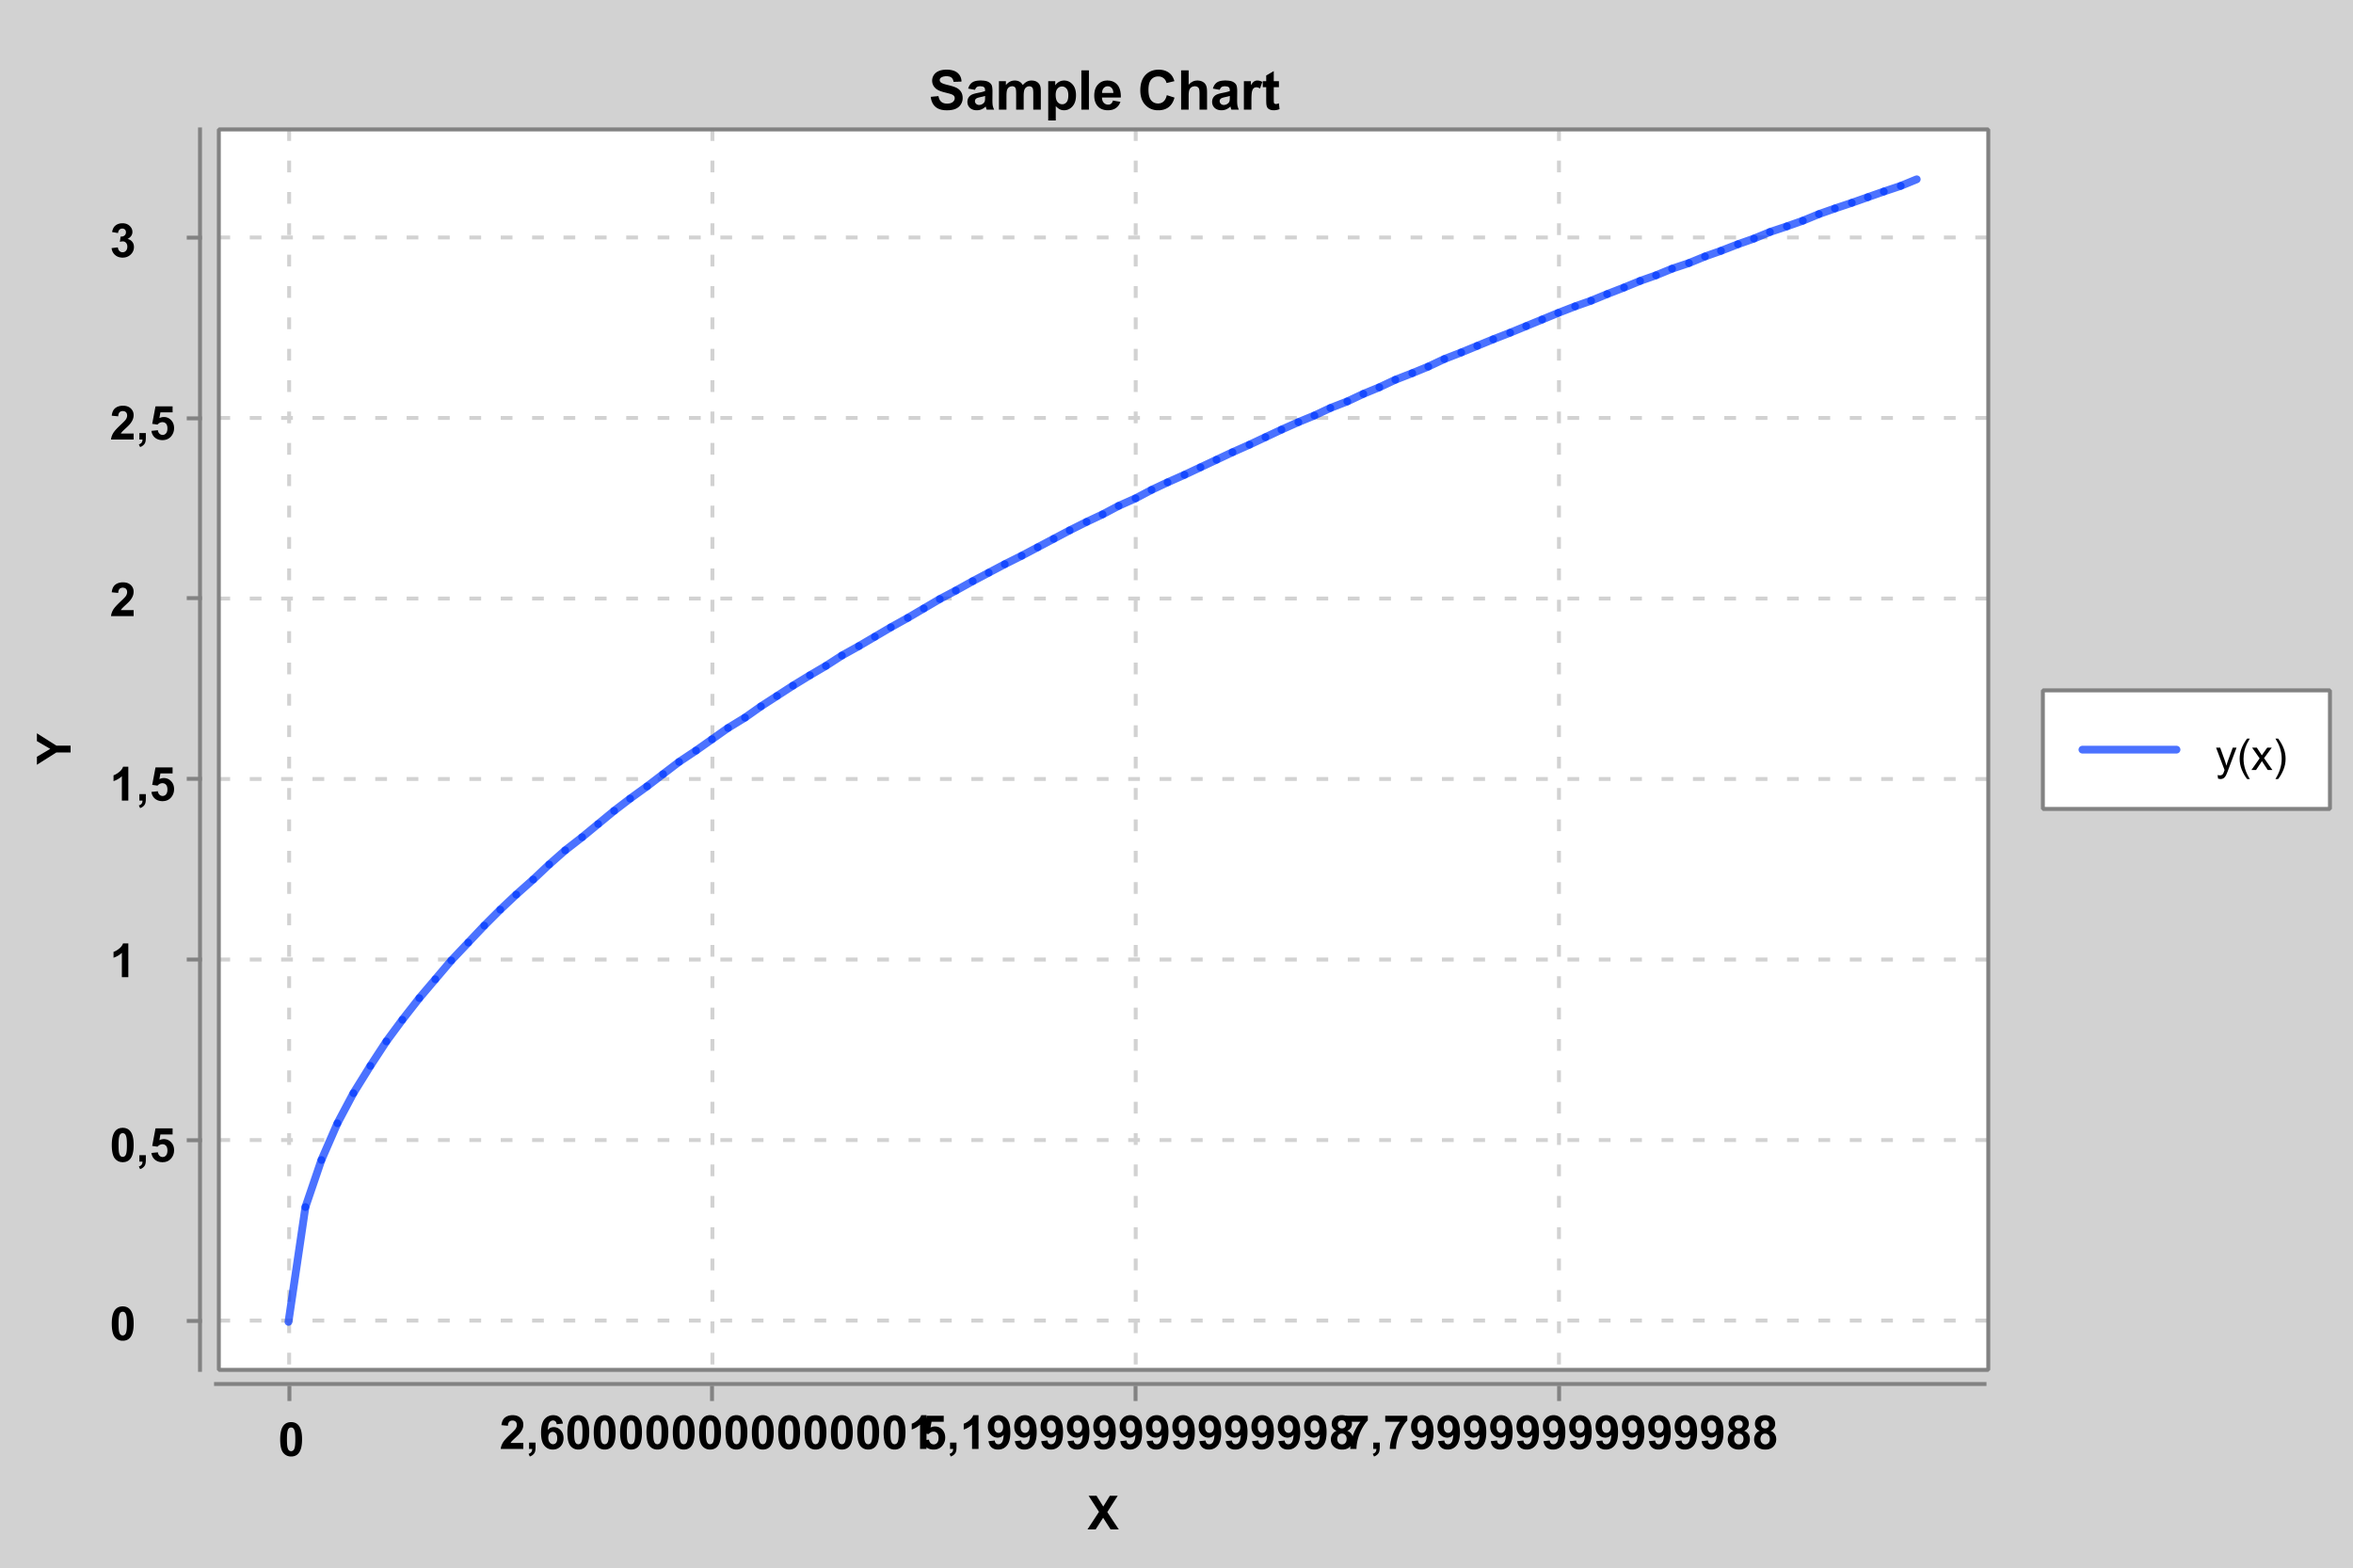
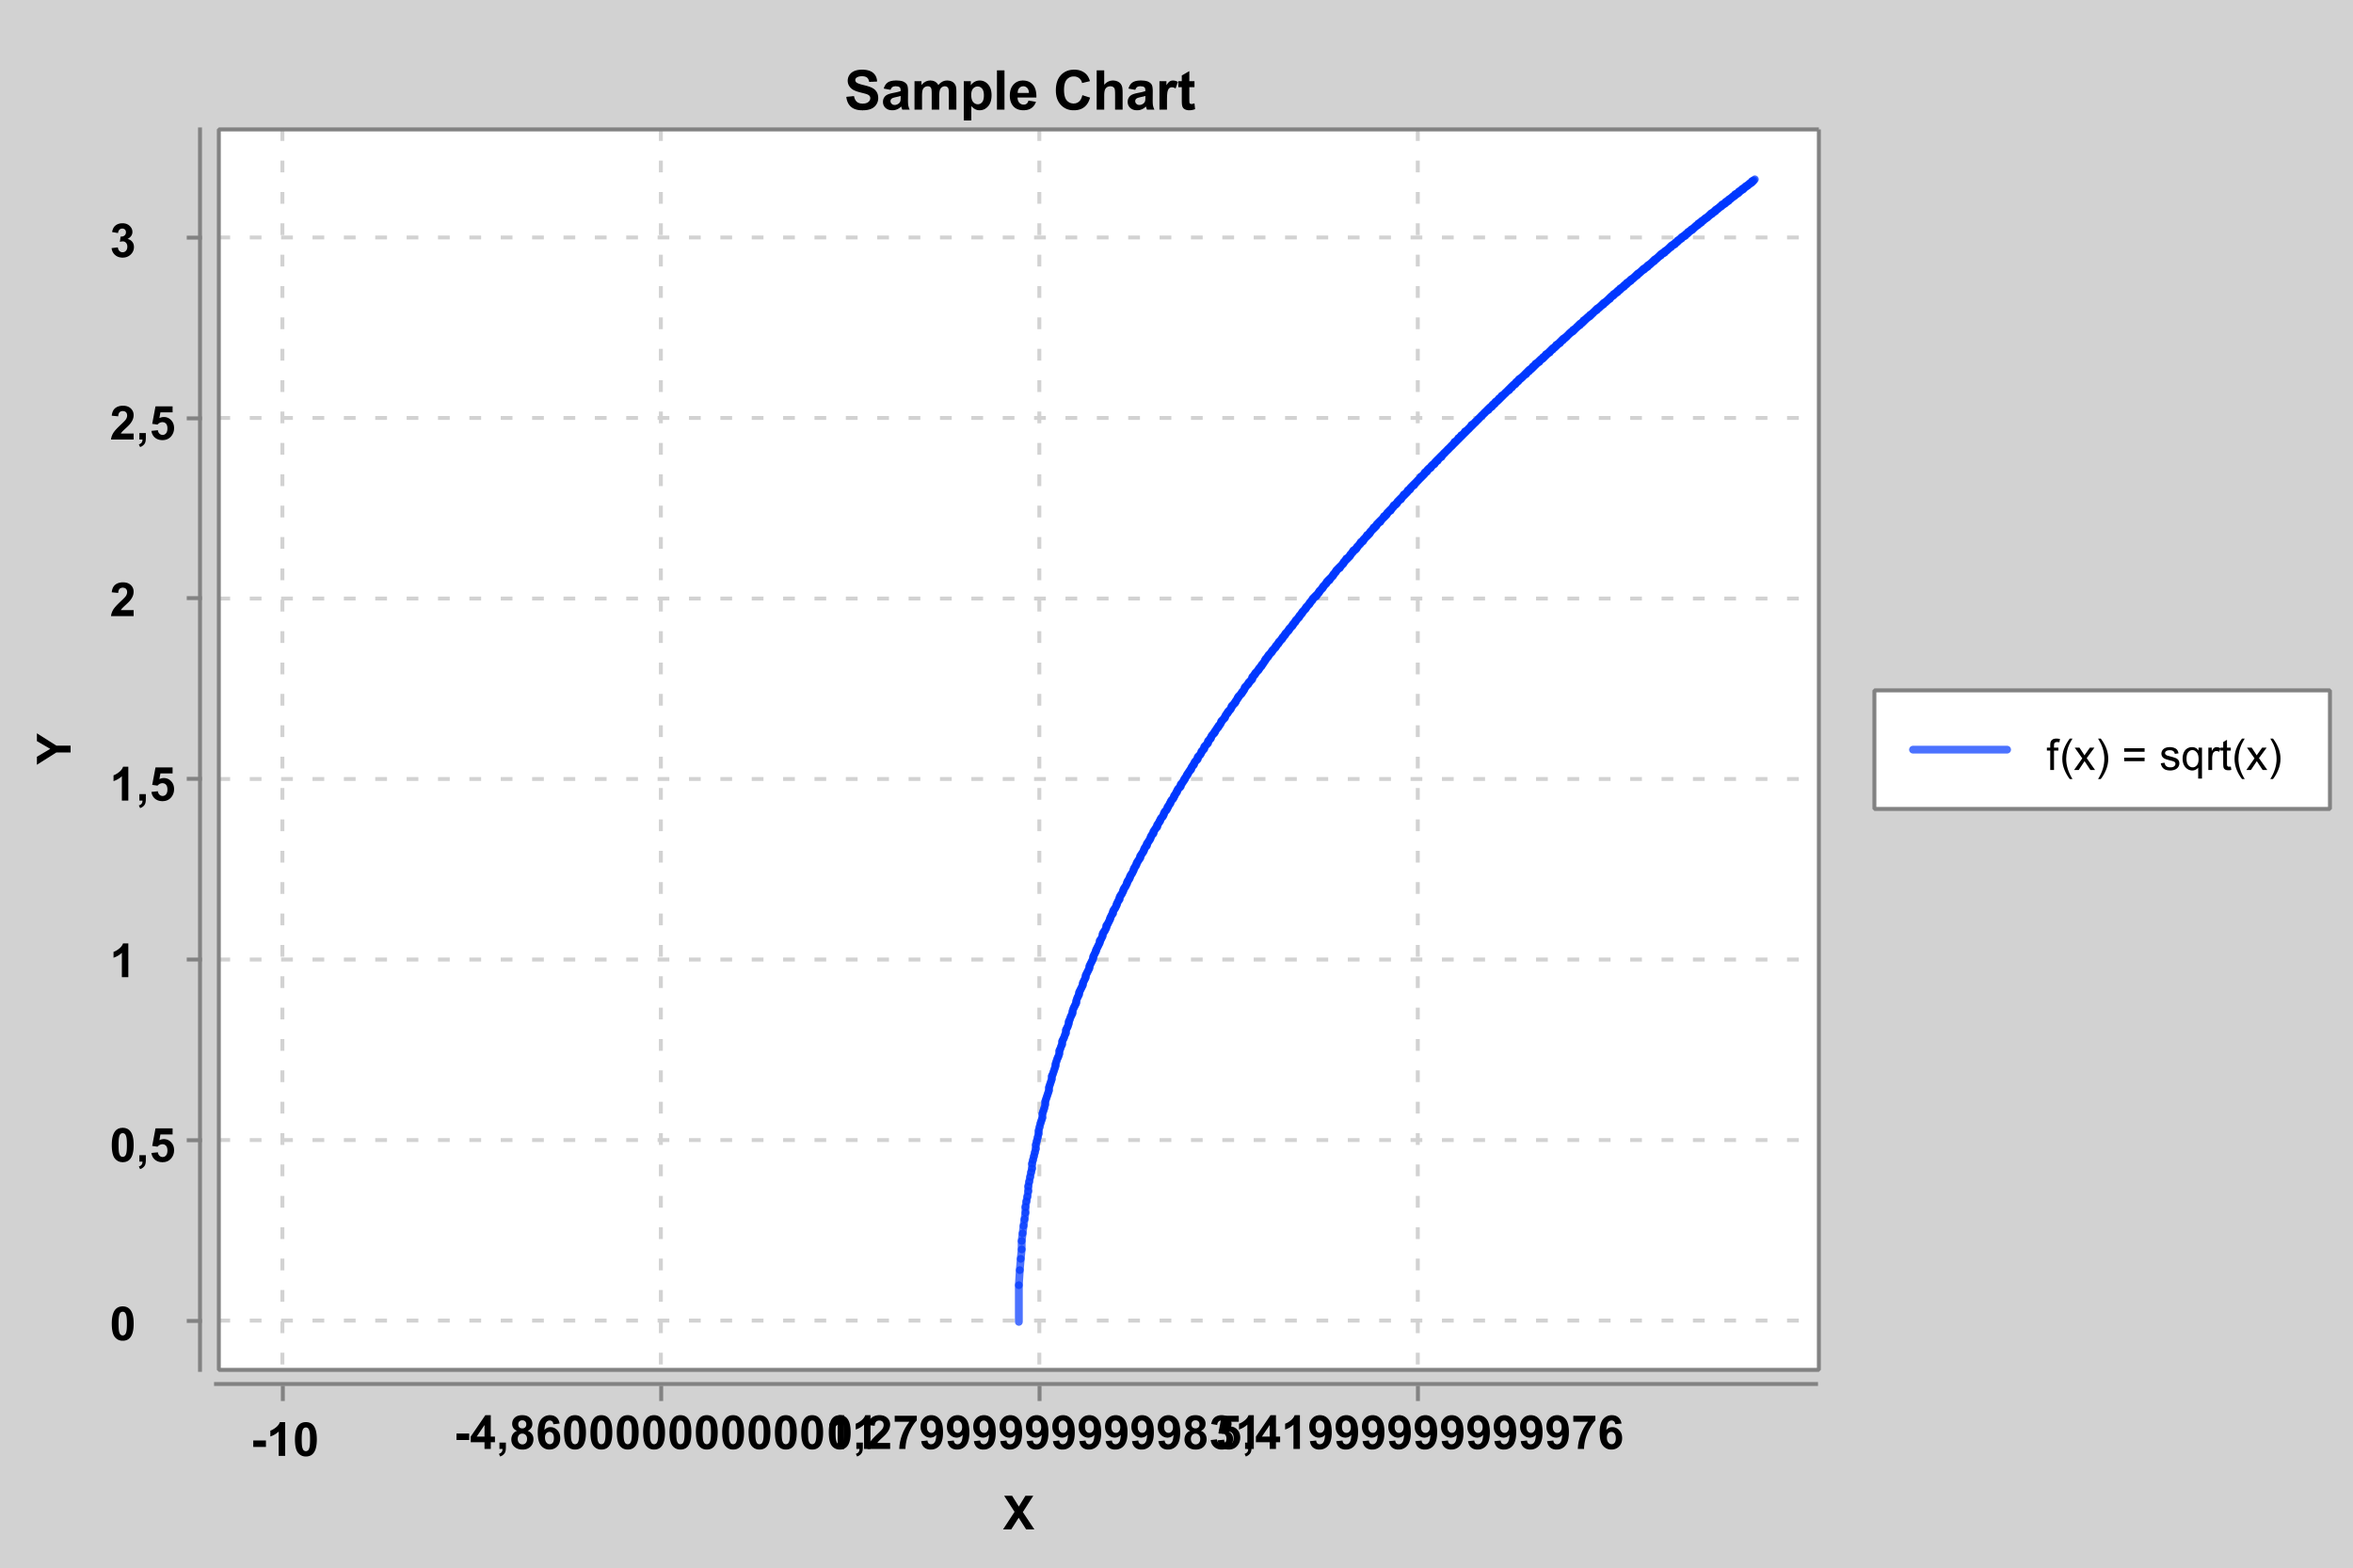
sqrt(x)

diff --git a/src/main/java/com.mathp/MathParser.java b/src/main/java/com.mathp/MathParser.java
@@ -1,5 +1,6 @@
 package com.mathp;
 
+import java.text.DecimalFormat;
 import java.util.*;
 
 public class MathParser {
@@ -345,6 +346,18 @@ public class MathParser {
             _string.append(fvalue);
             return _string.toString();
         }
+
+        public static String _fformat(double value)
+        {
+            DecimalFormat formatter;
+
+            if(value - (int)value > 0.0)
+                formatter = new DecimalFormat("0.0000000000");
+            else
+                formatter = new DecimalFormat("0.0000000000");
+
+            return formatter.format(value).replace(",",".");
+        }
     }
 
     public static class Syntax {
@@ -415,7 +428,7 @@ public class MathParser {
                     return -positive_value;
                 case NUMBER:
                     try {
-                        return Double.valueOf(lexeme.string);
+                        return Double.parseDouble(lexeme.string);
                     } catch (NumberFormatException e) {
                         e.getMessage();
                     }
@@ -525,9 +538,7 @@ public class MathParser {
                 }
             }
 
-
-
-            return new FunctionHandle(_split.toString().replace(splitter + variable, java.lang.Double.toString(value)));
+            return new FunctionHandle(_split.toString().replace(splitter + variable, MathParser.Precision._fformat(value)));
         }
 
         public HashMap<String, List<Integer>> getCoeffs(String variable) {
@@ -540,6 +551,8 @@ public class MathParser {
                 _expression = new StringBuilder(_expression.toString().replace(name, ""));
             }
 
+            _expression = new StringBuilder(_expression.toString().replace("E", ""));
+
             String[] _symbols = new String[] {"\\+", "\\-",
                     "\\*", "\\/",
                     "\\(", "\\)",
@@ -550,6 +563,8 @@ public class MathParser {
             for (String s: symbols) {
                 _expression = new StringBuilder(_expression.toString().replace(s, ""));
             }
+
+            _expression = new StringBuilder(_expression.toString().replaceAll("[\\-\\+\\^:,]",""));
 
             for (int i = 0; i < _expression.length(); i++) {
                 if (!(Character.isDigit(_expression.charAt(i))) & ((Character.isLetter(_expression.charAt(i))))) {

diff --git a/src/main/java/com.mathp/Main.java b/src/main/java/com.mathp/Main.java
@@ -2,6 +2,7 @@ package com.mathp;
 
 import java.math.BigDecimal;
 import java.math.RoundingMode;
+import java.text.DecimalFormat;
 import java.util.ArrayList;
 import java.util.Arrays;
 import java.util.List;
@@ -31,9 +32,13 @@ public class Main {
         List<String> list_of_coeffs = new ArrayList<>();
         list_of_coeffs.addAll(new MathParser.FunctionHandle(function.expression).getCoeffs(variable).keySet());
 
-        for (int i = 0; i < list_of_coeffs.size(); i++) {
-            function = function.replaceCoeff(list_of_coeffs.get(i), list_of_coeff_values.get(i));
+        if (list_of_coeffs.size() > 0) {
+            for (int i = 0; i < list_of_coeffs.size(); i++) {
+                function = function.replaceCoeff(list_of_coeffs.get(i), list_of_coeff_values.get(i));
+            }
         }
+
+        System.out.println(function);
 
         List<MathParser.Lexeme> _lexeme_list = MathParser.lexParse(function.toString());
         MathParser.LexemeBuffer _lexeme_buff = new MathParser.LexemeBuffer(_lexeme_list);
@@ -46,13 +51,13 @@ public class Main {
         // f(x) = max(A, x, B)
         String function = "f(x) = sqrt(x)";
 
-        List<Double> coeffs = new ArrayList<>(Arrays.asList(1.0, 2.0));
+        List<Double> coeffs = new ArrayList<>(Arrays.asList());
 
         List<Double> xvals = new ArrayList<>();
 
         List<Double> yvals = new ArrayList<>();
 
-        for (double x = 0.0; x < 10.0; x = x + 0.1) {
+        for (double x = -10.0; x < 10.0; x = x + 0.01) {
             xvals.add(x);
             yvals.add(functionEval(function, x, coeffs));
         }
@@ -66,7 +71,7 @@ public class Main {
         }
 
 // Create Chart
-        XYChart chart = QuickChart.getChart("Sample Chart", "X", "Y", "y(x)", xData, yData);
+        XYChart chart = QuickChart.getChart("Sample Chart", "X", "Y", function, xData, yData);
 
 // Show it
         new SwingWrapper(chart).displayChart();
